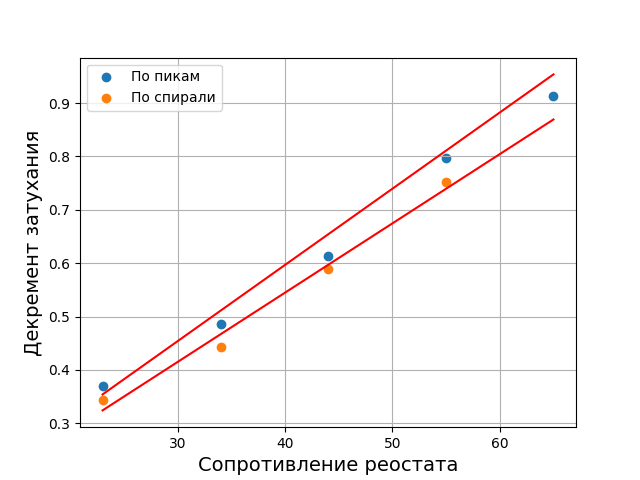
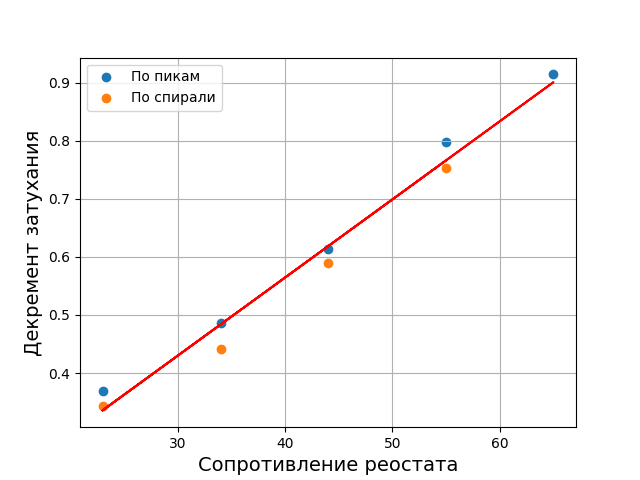
Fix typos in report; infer R_{cr} from Θ(R) slope

diff --git a/report.tex b/report.tex
@@ -65,13 +65,13 @@
 \includegraphics[width=0.5\linewidth]{check_periods.png}
 \end{center}
 
-Для дальнейших измерений выбрал пятый конденсатор, потому что для конденсаторов с меньшей емкостью нельзя было подобрать критическое сопротивление (сопротивления реостата не хватало), а поскольку в дальнейшем нужны были доли критического сопротивления, то хотелось, чтобы оно составляло большую часть от сопротивления реостата, и конденсаторы с большей емкостью не пододили.
+Для дальнейших измерений выбрал пятый конденсатор, потому что для конденсаторов с меньшей емкостью нельзя было подобрать критическое сопротивление (сопротивления реостата не хватало), а поскольку в дальнейшем нужны были доли критического сопротивления, то хотелось, чтобы оно составляло большую часть от сопротивления реостата, и конденсаторы с большей емкостью не подходили.
 
 Далее $C =$~100.3~нФ.
 Характеристическая частота для 400-витковой катушки и этого конденсатора: $\frac{1}{T} =$~6.4~кГц.
 Индуктивность и сопротивление катушки при маленьких частотах: 5.841~мГн, 3.5~Ом.
 На частоте 10 кГц: 6.139~мГн, 8.3 Ом.
-На характеристической частоте: 5.97~мГн, 6.7~мГн.
+На характеристической частоте: 5.97~мГн, 6.7~Ом.
 
 Критическое сопротивление для данного контура: $R_{\text{cr}} = 440 \pm 10$~Ом при полном сопротивлении реостата 466 Ом.
 Погрешность оценил по чувствительности пика на картинке осциллографа к изменениям --- при меньших изменениях не видел разницы.

diff --git a/qfactor_peaks.py b/qfactor_peaks.py
@@ -38,6 +38,7 @@ plt.savefig('qfactor_peaks.png')
 plt.close()
 
 slopes = np.array((0.370, 0.486, 0.614, 0.797, 0.914,))
+print(f'So, slopes for peaks are {slopes}')
 
 # Moving to the spiral method
 voltages_tuple = (
@@ -60,14 +61,16 @@ plt.savefig('qfactor_peaks_spiral.png')
 plt.close()
 
 slopes_spiral = np.array((0.343, 0.442, 0.589, 0.753,))
+print(f'So, slopes for spirals are {slopes_spiral}')
 
 # Compare the decrement coefs from different methods.
 # They should be proportional to R.
 plt.scatter(ress, slopes, label='По пикам')
 plt.scatter(ress[:-1], slopes_spiral, label='По спирали')
-slope, intercept = np.polyfit(ress[:-1], slopes_spiral, 1)
-plt.plot(ress, slope * ress + intercept, color='r')
-plt.plot(ress, 2 * np. pi / 440 * ress + intercept, color='r')
+merged_ress = np.array((*ress, *ress[:-1]))
+merged_slopes = np.array((*slopes, *slopes_spiral))
+slope, intercept = np.polyfit(merged_ress, merged_slopes, 1)
+plt.plot(merged_ress, slope * merged_ress + intercept, color='r')
 plt.grid()
 plt.legend()
 plt.xlabel('Сопротивление реостата', fontsize=14)
@@ -75,4 +78,4 @@ plt.ylabel('Декремент затухания', fontsize=14)
 plt.savefig('qfactor_prop_r.png')
 plt.close()
 
-print(f'Slope is {slope}, while it must be  2π / R_cr = 2π / 440 = {2 * np.pi / 440}')
+print(f'Critical resistance from the q-factor plot is {2 * np.pi / slope}')
